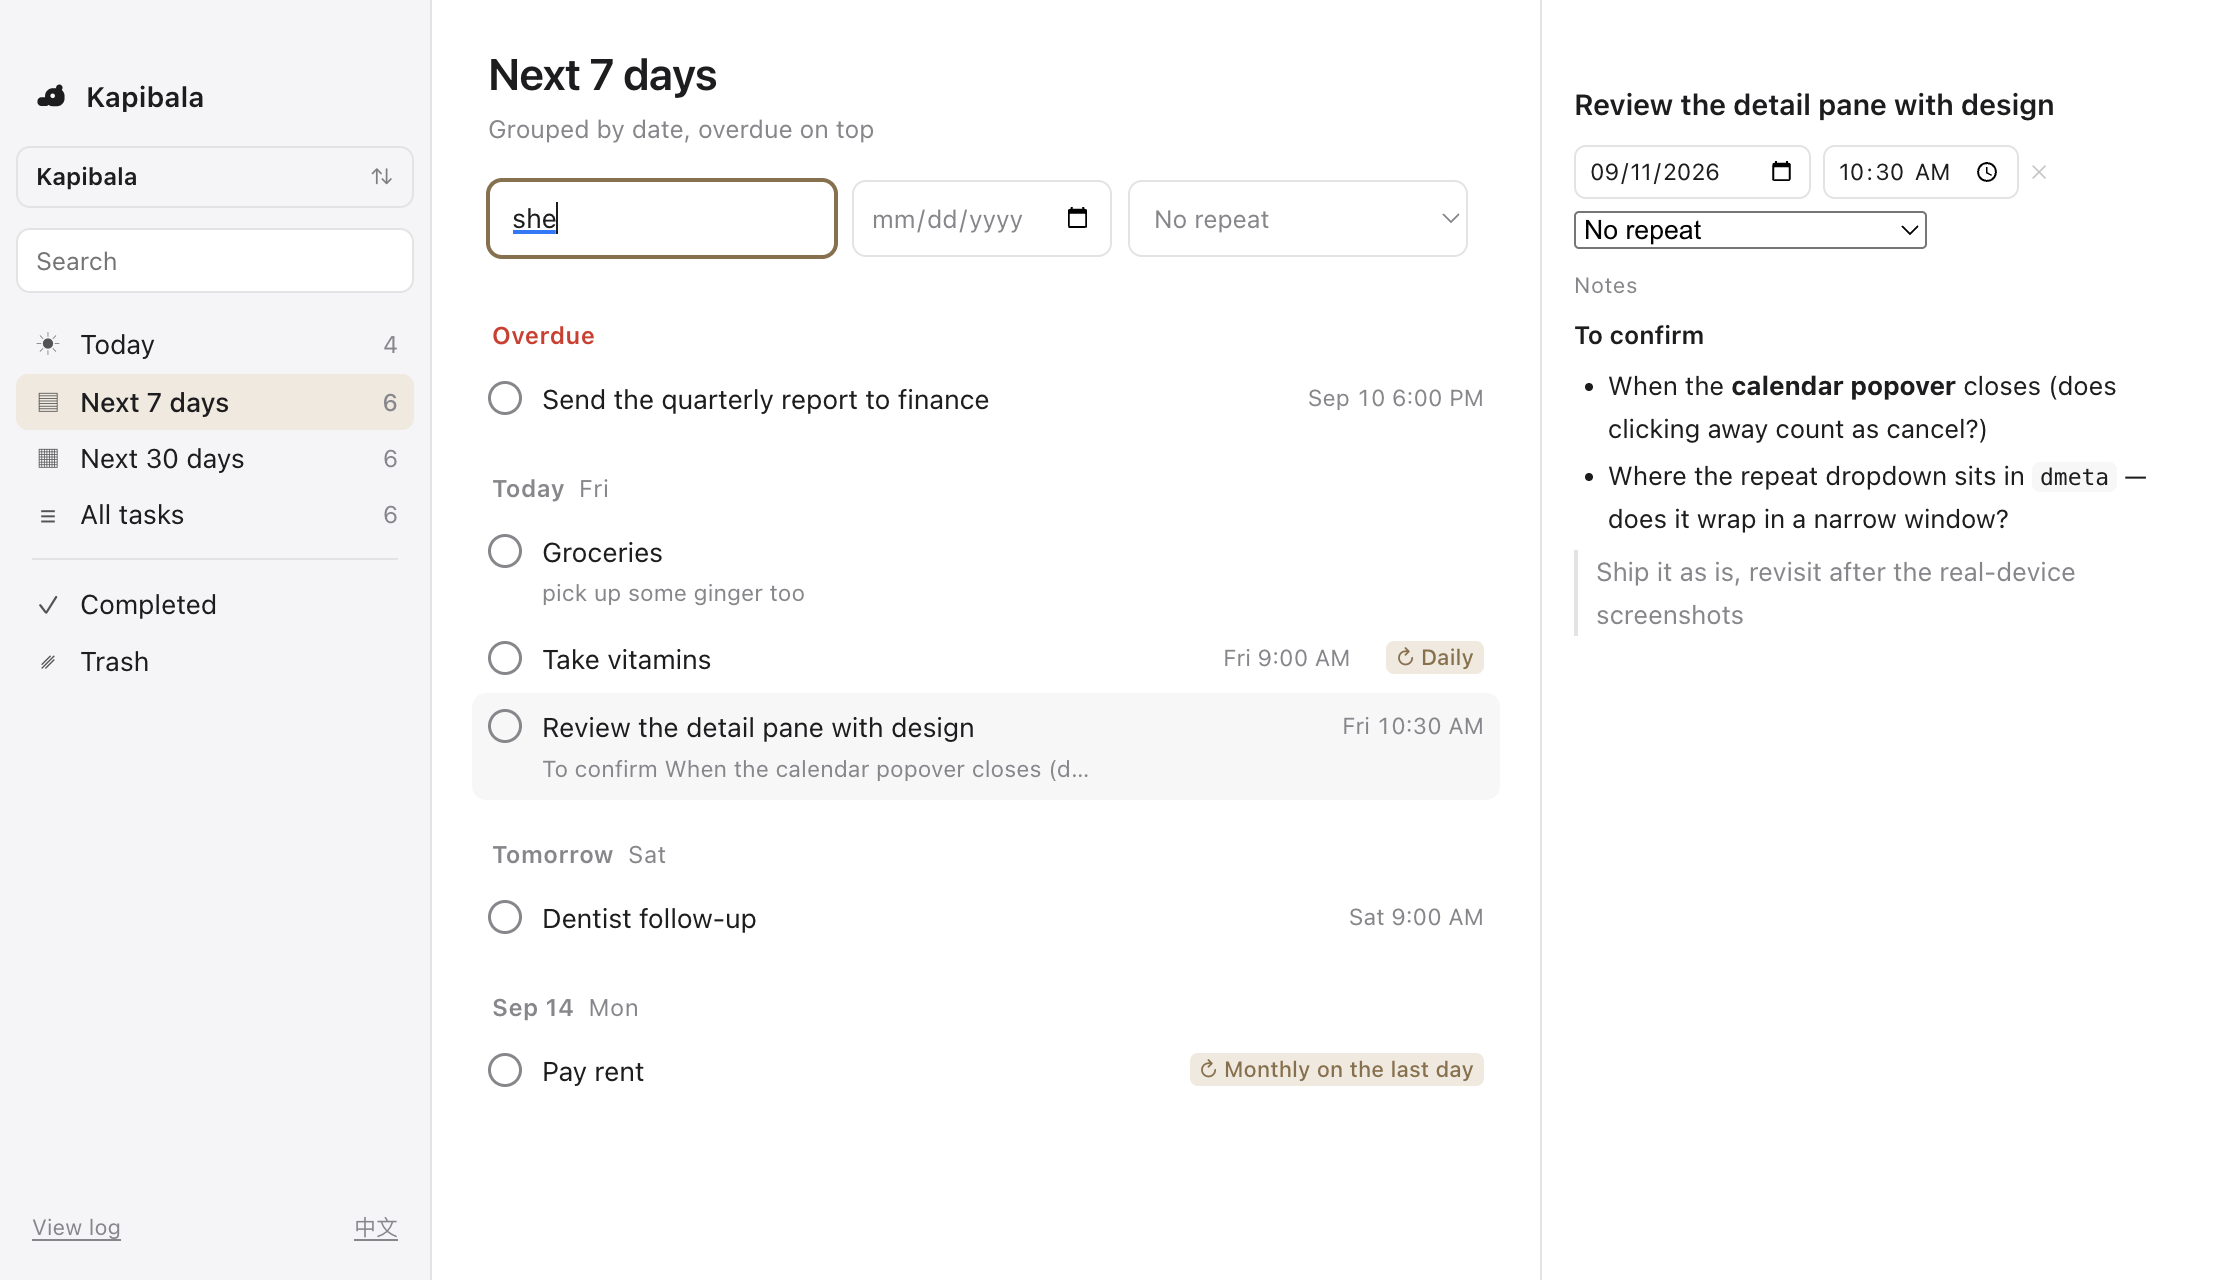
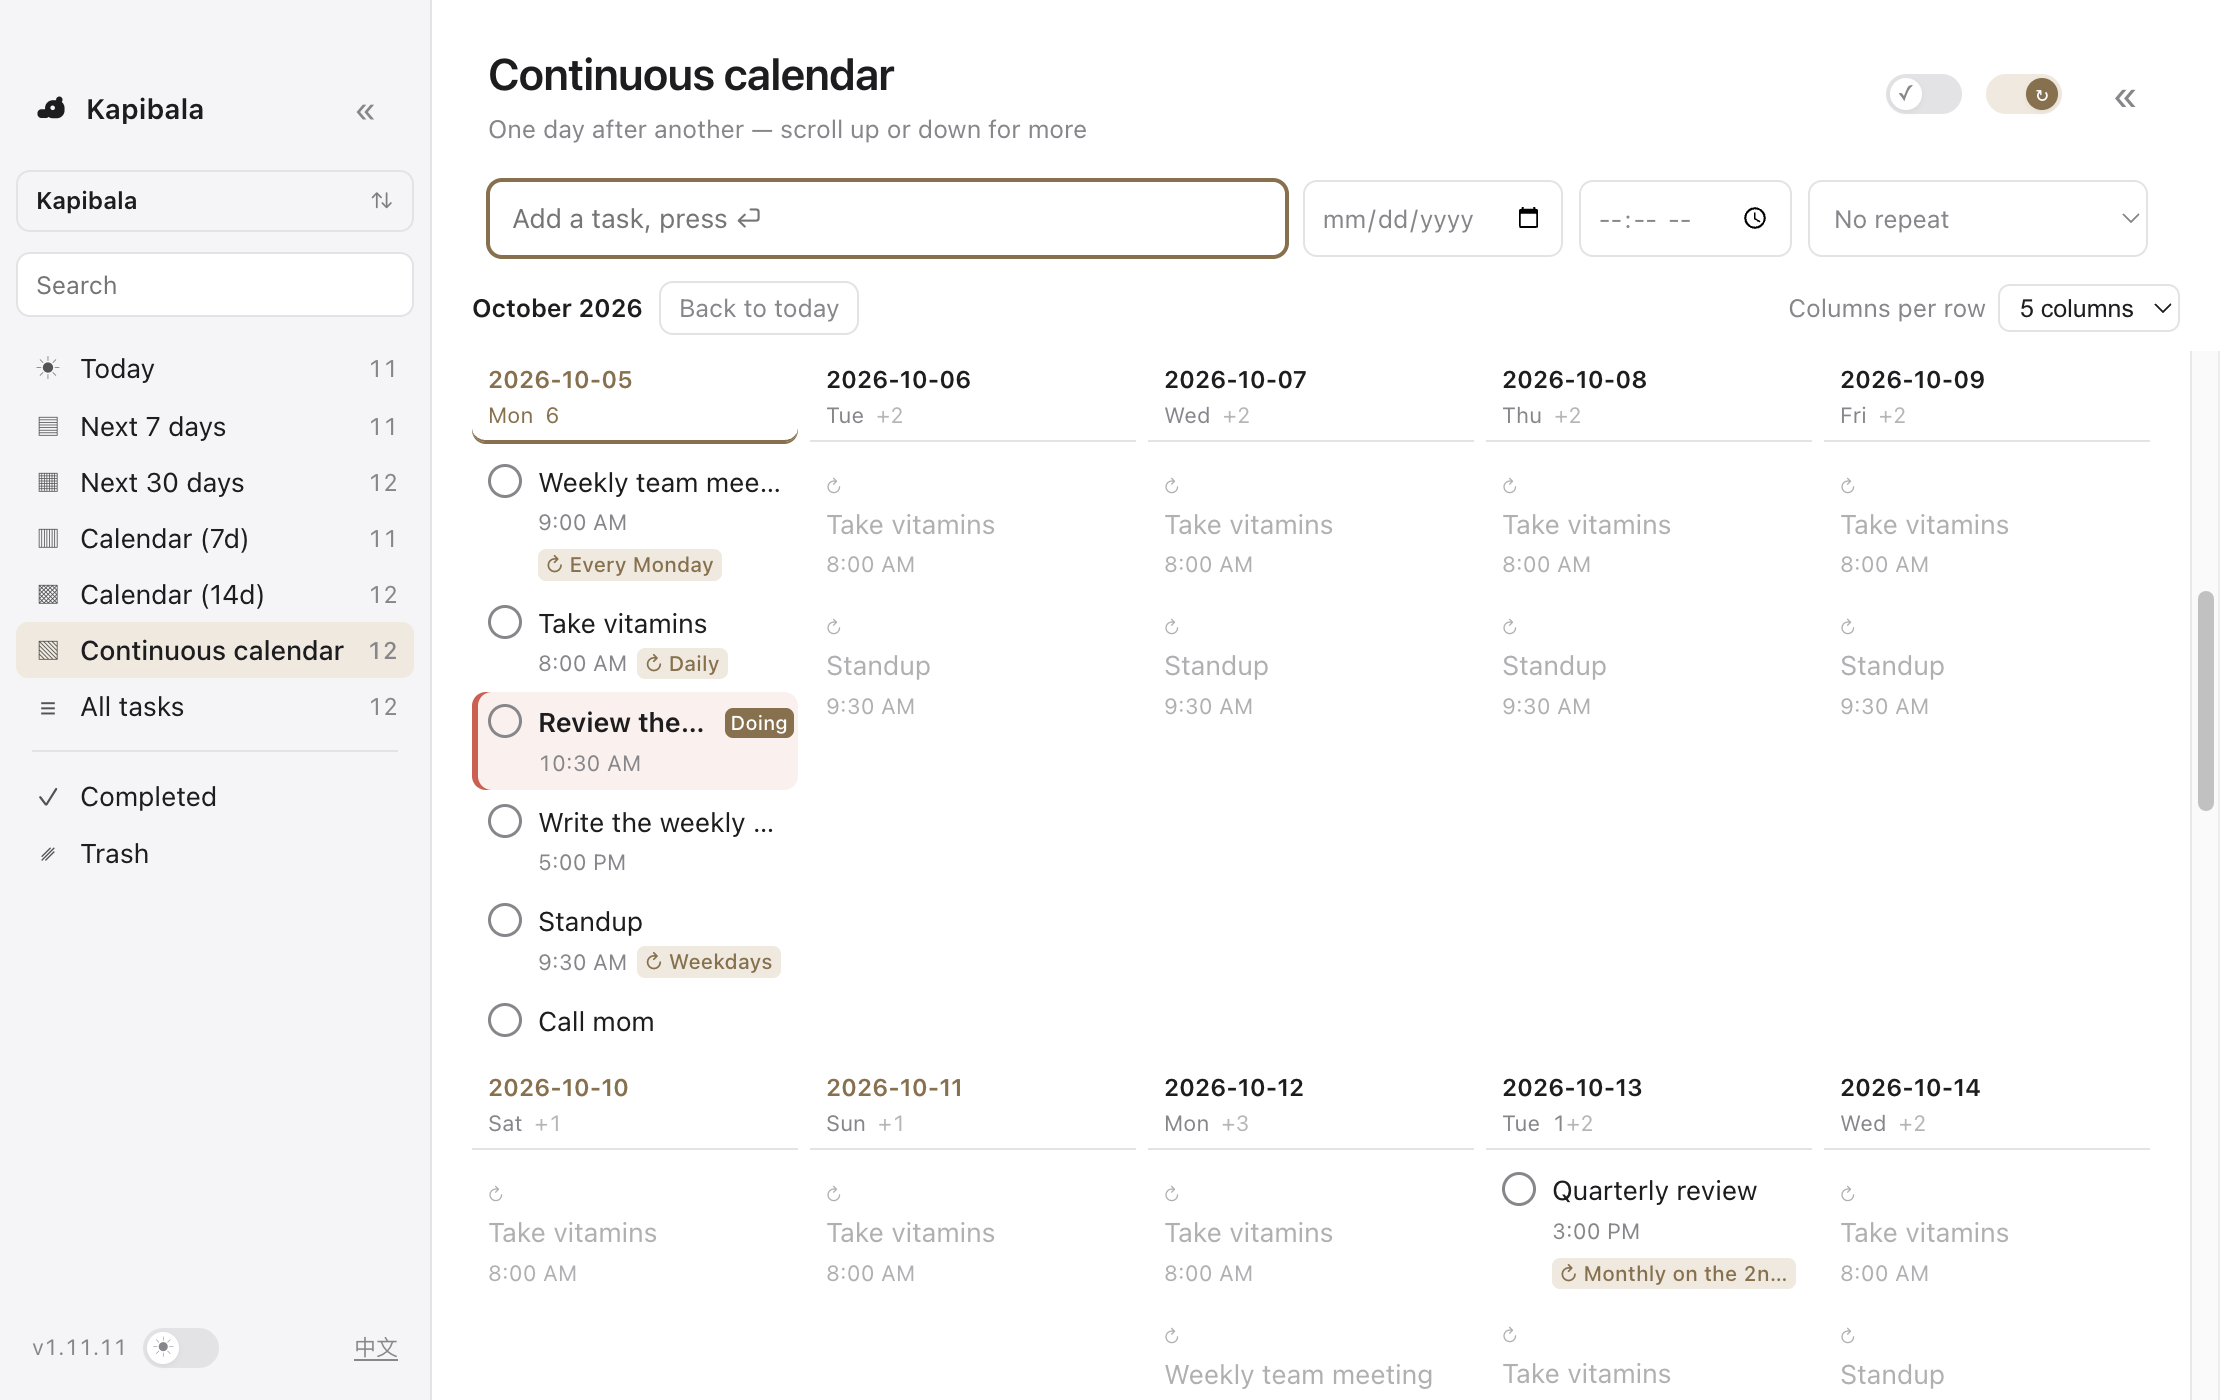
docs: README 以「连续日历」为主线重写（这一屏是什么 + 「让不重要的事情过去」那段理念，附两张真机截图）；顺带修掉日历格子里重复标签捅出格子压到隔壁格的问题（英文长规则名 165px > 一格 163px，格子里改成封顶 + 省略号、全文进 title）；版本号 1.12.0

diff --git a/apps/desktop/src/renderer/index.html b/apps/desktop/src/renderer/index.html
@@ -243,6 +243,14 @@ body.caldragging, body.caldragging *{ cursor:grabbing !important;
 .calmeta{ display:flex; align-items:center; gap:5px; flex-wrap:wrap; margin-top:2px;
           font-size:11px; color:var(--dim); font-variant-numeric:tabular-nums }
 .calmeta .tag.rep{ margin:0; padding:0 4px; font-size:10.5px }
+/* 格子里的重复标签必须让位。.tag.rep 是 flex:none + nowrap（见上面的 .tag.rep）：
+   列表行那么宽，规则名再长也放得下；格子只有九十来到一百六十像素，
+   英文 "Monthly on the 2nd Tuesday" 有 165px，比 5 列的一格还宽 —— 它不会换行也不会缩，
+   直接横着捅出去压在隔壁格的时间上（中文 7 列时"每月第二个周二"同样会）。
+   格子窄，这里只能截：宽度封在格子里，放不下给省略号，全文挂在标签的 title 上（见 calRow），
+   悬浮还是看得到，详情栏里也有完整规则 */
+.calrow .calmeta .tag.rep{ display:block; min-width:0; max-width:100%;
+                           overflow:hidden; text-overflow:ellipsis }
 
 /* ── 「连续日历」：日子一天接一天铺下去，上下无限滚，每行放几列由用户定（--cal-cols） ──
    和上面 7d / 14d 那两屏共用 .calcell / .calrow / data-day 那一套

diff --git a/apps/desktop/src/renderer/app.ts b/apps/desktop/src/renderer/app.ts
@@ -1227,7 +1227,9 @@ function calRow(t: Task, cell: CalCell): string {
   // 有 tip 就照样把这个空壳画出来（窄格里已完成的那行正文是空的），否则没地方挂提示
   const meta = when || rep || tip
     ? `<div class="calmeta"${tip ? ` title="${esc(tip)}"` : ''}>${when ? `<span>${esc(when)}</span>` : ''}${
-        rep ? `<span class="tag rep">↻ ${esc(rep)}</span>` : ''}</div>`
+        // 重复标签在格子里放不下就截成省略号（见 index.html 的 .calrow .calmeta .tag.rep），
+        // 所以整条规则挂在标签自己的 title 上 —— 截掉的那半句悬浮就看得到
+        rep ? `<span class="tag rep" title="↻ ${esc(rep)}">↻ ${esc(rep)}</span>` : ''}</div>`
     : ''
   // 进行中：徽标钉在格子右上角，标题给它让出宽度（见 index.html 的 .calrow .tag.doing）。
   // 标题带 title：装不下时被截成一行加省略号，悬浮还能看全

diff --git a/README.md b/README.md
@@ -8,9 +8,35 @@ Kapibala is a to-do app for macOS and Windows. Like Obsidian, it keeps all of yo
 
 **Put it on a synced drive and your devices stay in sync.** iCloud Drive, OneDrive, Dropbox, Nutstore — any of them works, and a Mac and a Windows PC can share the same vault. Keep it off a synced drive and Kapibala is a purely local app.
 
-![The Kapibala main window](./docs/images/screenshot.png)
+**It does not nag.** No notifications, no red badges, no "12 overdue" counter, and nothing unfinished gets pushed to tomorrow. In the Continuous calendar the things you did not get to stay on the day they belonged to — scroll up and there they are. Let the unimportant ones go by.
 
-## 1. Download
+![The Kapibala Continuous calendar](./docs/images/screenshot.png)
+
+## 1. The Continuous calendar: one day after another
+
+This is the screen the app opens on. Days are **not cut into months** — they run one after another, endlessly, in both directions: scroll up for months of history, down for years ahead, and more days are laid out as you reach an edge. How many cells fit in a row is yours to pick (3–7, five by default).
+
+- **Today is a line.** Today's cell gets no fill — just an accent-coloured line under the day header, curving up slightly at both ends. One glance across the grid and you know where you are standing.
+- **Every cell carries its own full date and weekday.** This screen has no Monday-to-Sunday columns (columns and weekdays are not aligned here), so each cell spells it out: `2026-10-05 / Mon`. Weekends turn the date accent-coloured, and the toolbar names the month as you scroll.
+- **Drag to reschedule.** Drag a task from one day to another and the time of day stays put; which day it lands on, and where it sits in that day, is wherever you drop it.
+- **Repeats show you where they will land.** A fixed-schedule task such as "read 20 minutes a day" is drawn on the days it will fall on as greyed-out rows — display only: they cannot be ticked off, dragged, or deleted, and they stay out of the sidebar counts. "N days after completion" repeats are left alone (their dates depend on when you tick one off, so they cannot be known). There is a toggle in the toolbar, on by default, and projection reaches one year ahead at most.
+- **Overdue never piles up.** Nothing unfinished is moved to today, and nothing collects into a list that grows longer every week — it stays on the day it belonged to. Scroll up and last week's leftovers are simply there.
+
+### Let the unimportant ones go by
+
+A to-do list turns into an invoice you owe yourself surprisingly fast: yesterday's leftovers sit in today, today's slide into tomorrow, the number keeps climbing, and eventually you stop opening the app.
+
+Kapibala does not work that way:
+
+- **Today's cell holds today's load** — it does not carry yesterday's balance. Yesterday's things stay in yesterday's cell; nothing is rescheduled for you, and nothing counts what you "owe".
+- **No notifications, no red badges, no streaks**, and no "N overdue" figure. If you do not open the app, it will not come looking for you.
+- **Do it when you want to.** If something really matters, mark it **Important** and it goes to the top of its day (with a red bar on the left); mark what you are working on **In progress** and the row carries a badge. Everything else can wait — or not happen.
+
+![The days before today: whatever was not finished is still sitting on its own day](./docs/images/overdue.png)
+
+> That one is scrolled back a few days: what was left undone between Sep 30 and Oct 4 is still on its own day — not moved to today, and not collected into an "overdue" list.
+
+## 2. Download
 
 Grab the package for your platform from [Releases](https://github.com/yaodongen/kapibala/releases/latest).
 
@@ -32,7 +58,7 @@ Grab the package for your platform from [Releases](https://github.com/yaodongen/
 
 > It is not code-signed there either, so SmartScreen stops the first launch once: click "More info" → "Run anyway".
 
-## 2. Getting started
+## 3. Getting started
 
 1. Launch Kapibala and pick a folder to be your **vault**. Every task lives in there.
 2. To sync across devices, pick a folder inside a sync drive — on a Mac, say iCloud Drive's `~/Library/Mobile Documents/com~apple~CloudDocs/my-todo`; on Windows, say a folder inside OneDrive. Open the same folder on the other machine.
@@ -42,7 +68,7 @@ Multiple vaults work too: one for work, one for life, switched at any time and n
 
 Want a backup? Copy the whole folder (on macOS `cp -r` or Time Machine; on Windows just drag it somewhere). Done with the app? Delete it — the data is still yours.
 
-## 3. How your devices stay in sync
+## 4. How your devices stay in sync
 
 Every machine — Mac or Windows — owns one subfolder inside the vault and writes only there; the sync service you picked just carries files around.
 
@@ -72,7 +98,7 @@ Two edits to the same task on two machines are not a conflict: whichever write i
 
 Because no file is ever written by two machines, the classic synced-folder failure — the `000001 2.jsonl` conflict copy — cannot happen. The same holds across platforms: a Mac and a PC can share one vault because neither ever writes into the other's device folder.
 
-## 4. Features
+## 5. Features
 
 **Tasks**
 
@@ -87,6 +113,7 @@ Because no file is ever written by two machines, the classic synced-folder failu
 
 **Views**
 
+- **Continuous calendar**: see section 1 above — this is where the app opens
 - Today
 - **Next 7 days**: grouped by date and weekday, soonest first, with overdue tasks pinned in their own group on top
 - Next 30 days: same grouping, for the month ahead
@@ -100,18 +127,21 @@ Because no file is ever written by two machines, the classic synced-folder failu
 
 - English and Chinese. It follows your Mac's language, and you can switch any time from the bottom-left corner
 - The bottom-left corner shows the version number; clicking it opens the log
-- Window size is remembered per view: the two calendar views each keep their own, so switching back restores the size you dragged
+- Window size and detail-pane state are remembered per view: the three calendar views share one slot, the other views another, so switching back restores the size you dragged
 - Closing the window just tucks it away and the app keeps running. To really quit: on macOS right-click the Dock icon and choose Quit; on Windows right-click the tray icon
 
-## 5. Privacy
+## 6. Privacy
 
 - **It never goes online.** The only thing that touches your tasks is the sync service you picked.
 - **A readable format.** Storage is JSON Lines — one JSON object per line, plain text, not an opaque binary blob. You can see exactly what the app wrote, whenever you want. The layout is documented in [`docs/storage.md`](./docs/storage.md).
 
-## 6. FAQ
+## 7. FAQ
 
 **Do I have to use iCloud?**
 No. The vault folder can live anywhere — `~/Documents`, an external drive, Dropbox, Nutstore, any sync service. Keep it off a synced drive and the app is purely local.
+
+**Do unfinished tasks pile up forever?**
+In the Continuous calendar they stay on their own day, out of your way. The list views (Today / Next 7 days / Next 30 days) do collect what is still open into an **Overdue** group at the top, so you can clear it in one pass when you feel like it — but that is all it does: no reminders, no counters, nothing chasing you.
 
 **Can a Mac and a Windows PC share one vault?**
 Yes — that is a design goal now. Each machine gets its own device folder inside the vault, so mixing platforms causes no fights, and tasks and notes look identical on both sides. The only requirement is that your sync service carries files across unchanged (iCloud Drive, OneDrive, Dropbox and Nutstore all do).
@@ -119,7 +149,7 @@ Yes — that is a design goal now. Each machine gets its own device folder insid
 **"Kapibala"?**
 Capybara. The least anxious animal on earth. A to-do list should make you a little more like one.
 
-## 7. Development
+## 8. Development
 
 Needs Node 22.18+ (the sources run directly, there is no compile step) and `corepack`. One command builds the app and installs it into `/Applications`:
 
@@ -142,6 +172,6 @@ Two things differ from macOS on Windows, both decided by the OS: closing the win
 
 Design notes live in [`docs/`](./docs): [`architecture.md`](./docs/architecture.md) for how the pieces fit together, [`storage.md`](./docs/storage.md) for the on-disk format.
 
-## 8. License
+## 9. License
 
 MIT, see [LICENSE](./LICENSE).

diff --git a/CHANGELOG.md b/CHANGELOG.md
@@ -2,6 +2,13 @@
 
 All notable changes to Kapibala, newest first. One entry per released version: date, version, one line per language. Dates follow the commit date of that version in git.
 
+## 1.12.0 — 2026-10-05
+
+- The README now leads with the **Continuous calendar** — what it is, how to read it, what dragging and projection do — and then says out loud what the app is *for*: today's cell holds today's load, nothing unfinished is rescheduled for you, and no figure tells you how much you "owe". No notifications, no badges, no streaks, nothing chasing you. Two new screenshots, freshly taken from the real app.
+- Fix: repeat badges inside calendar cells no longer print over the neighbouring day. `.tag.rep` is `flex:none` + `nowrap` — right for a wide list row, wrong for a 163px cell, where a long rule name (`Monthly on the 2nd Tuesday` measures 165px) stuck out sideways onto the next cell's times; Chinese hits the same at 7 columns. Inside cells the badge is now clamped to the cell and truncates with an ellipsis, with the full rule on hover and in the detail pane.
+- README 改成以「**连续日历**」为主线：这一屏是什么、怎么看、拖一下和推演各是干什么的，然后把这套东西背后的想法讲明白 —— 今天这一格就是今天的量，没做完的事不会顺延到明天，也没有任何数字告诉你"欠了多少"；没有通知、没有红点、没有连续打卡，你不开它，它不来找你。两张截图都是从真机上重新截的。
+- 修：日历格子里的重复标签不再压在隔壁那一天上。`.tag.rep` 是 `flex:none` + `nowrap`（在列表行里这么写没错），可放进 163px 的格子就出事了：英文长规则名（`Monthly on the 2nd Tuesday` 量出来 165px）横着捅出去，盖住隔壁格的时间；中文 7 列时"每月第二个周二"同样会。格子里改成宽度封顶 + 省略号，全文在悬浮提示和详情栏里。
+
 ## 1.11.11 — 2026-10-05
 
 - **Today** in the calendar views is now marked by an accent-coloured line under the day header that curves up at both ends, with the date and the weekday turning accent-coloured to match. The solid 2px outline and the tinted header block are gone — one line does the job, and it is the separator that was already there.
